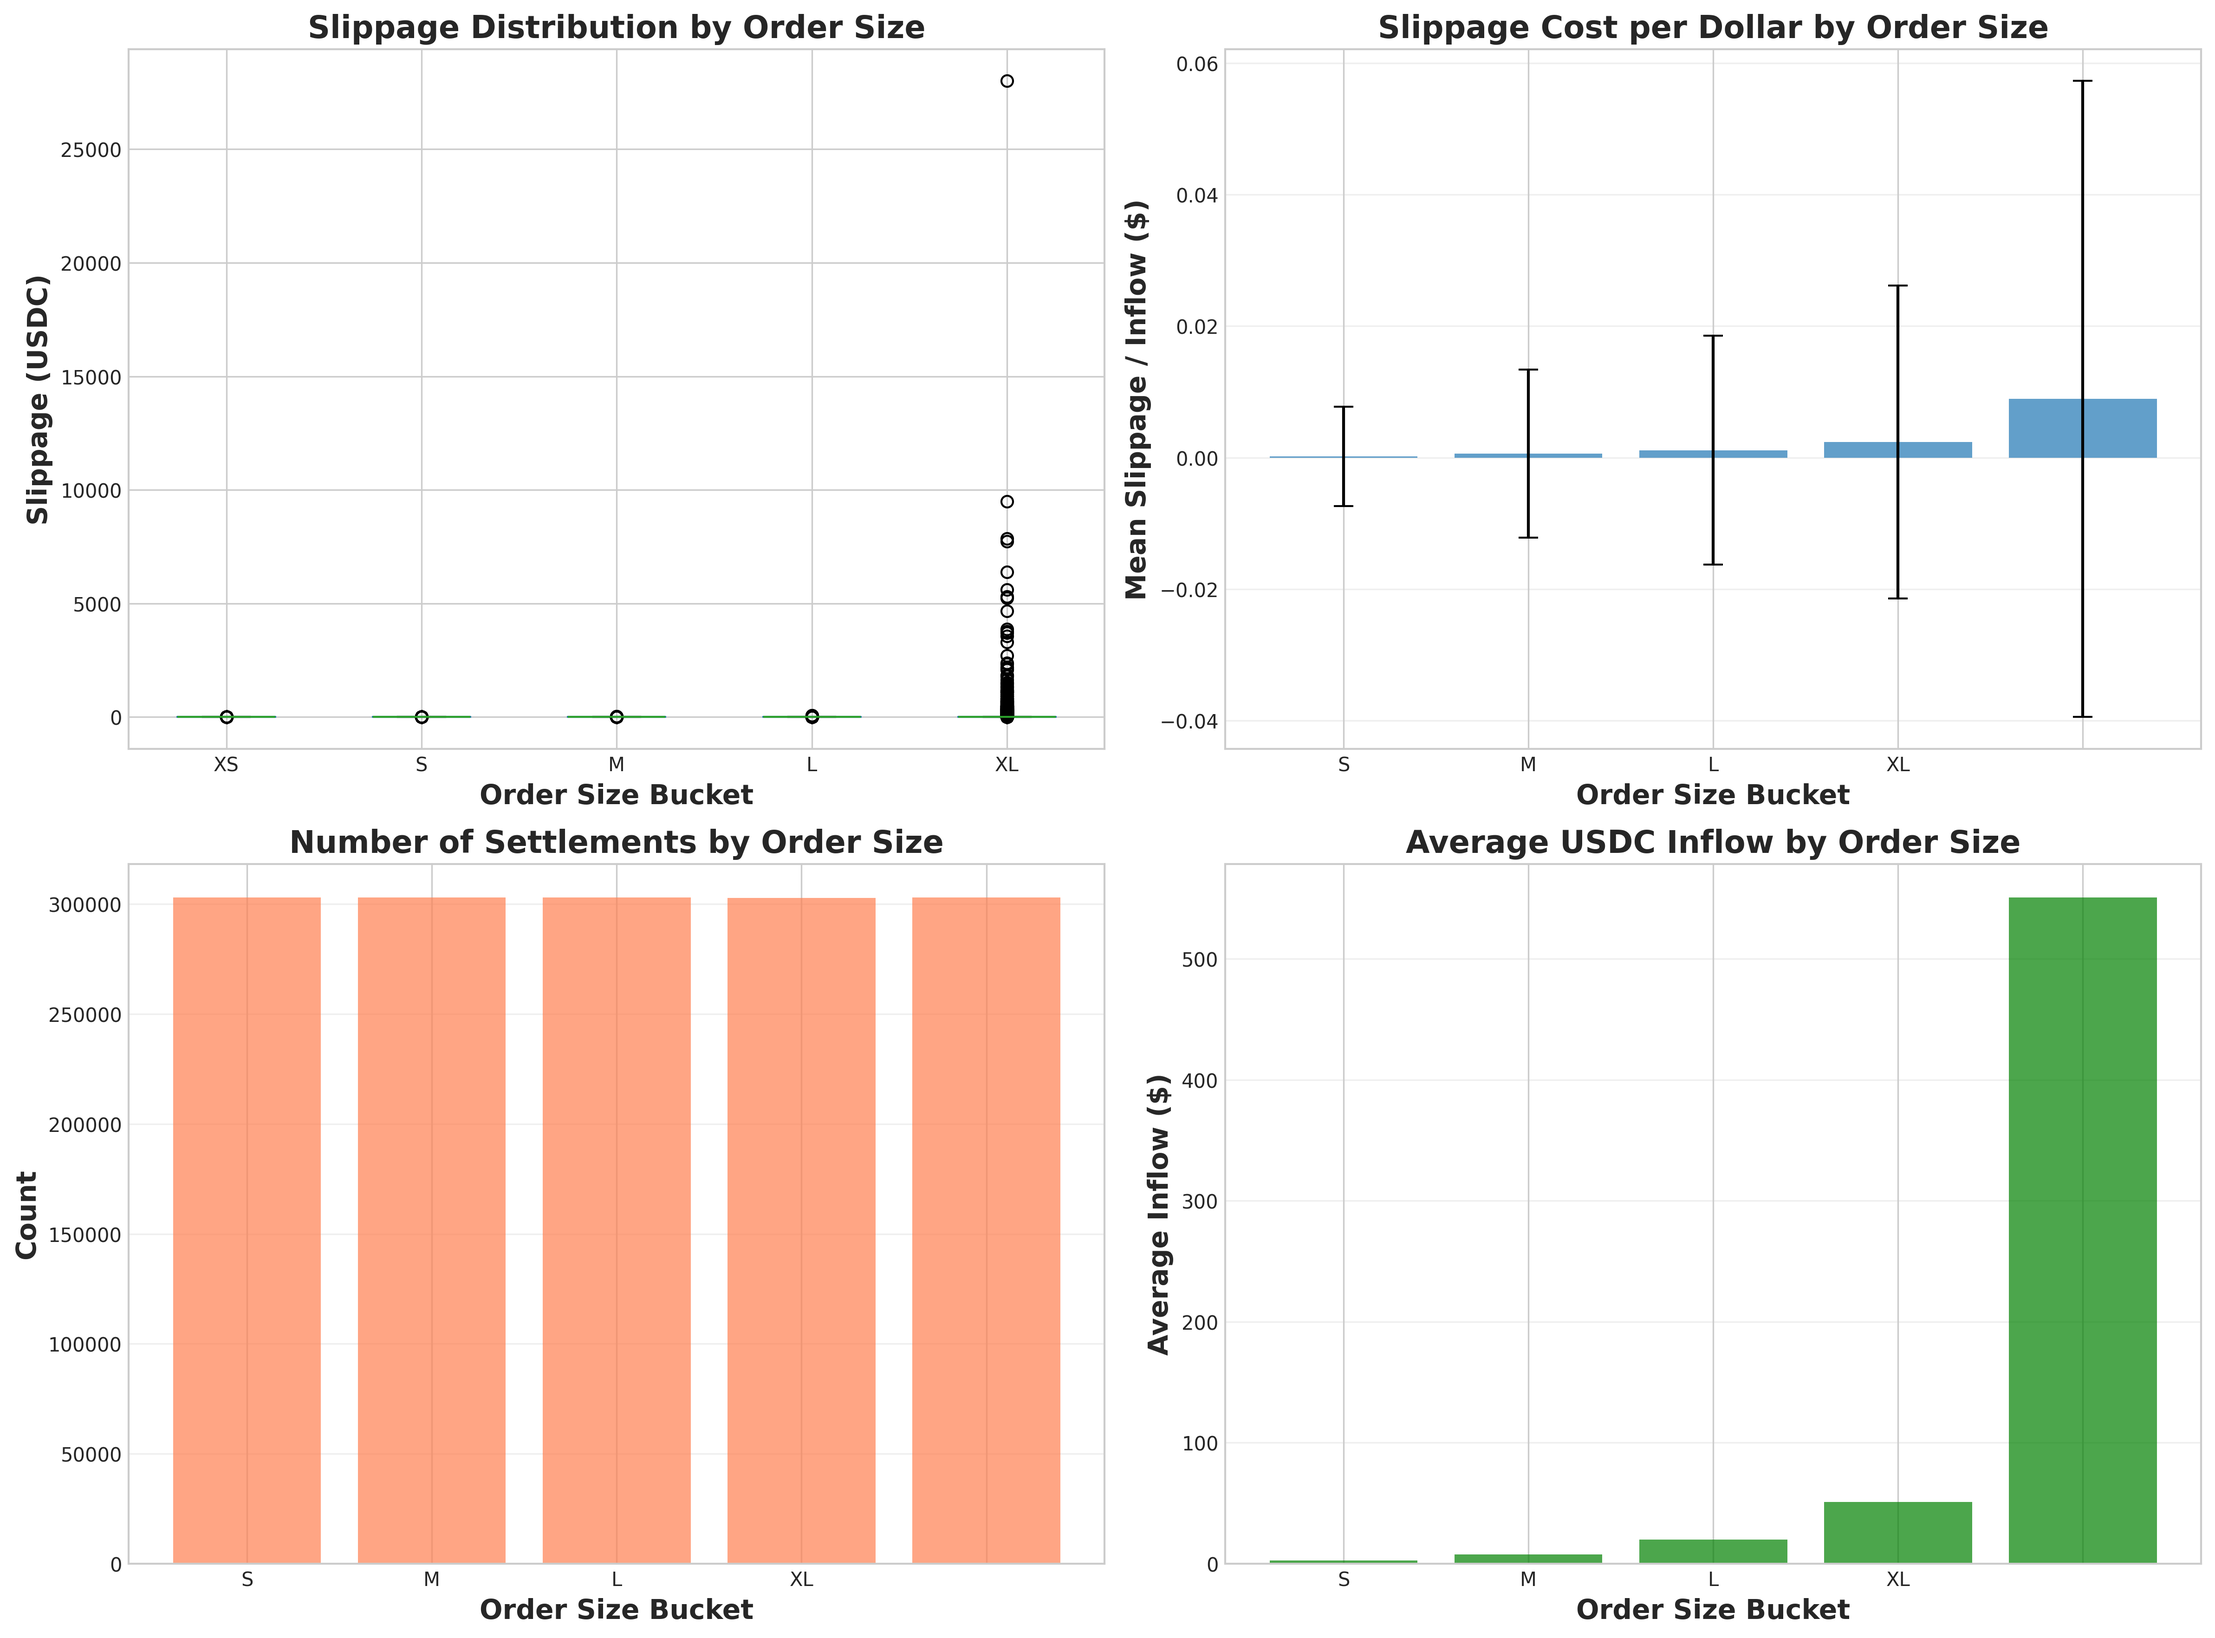
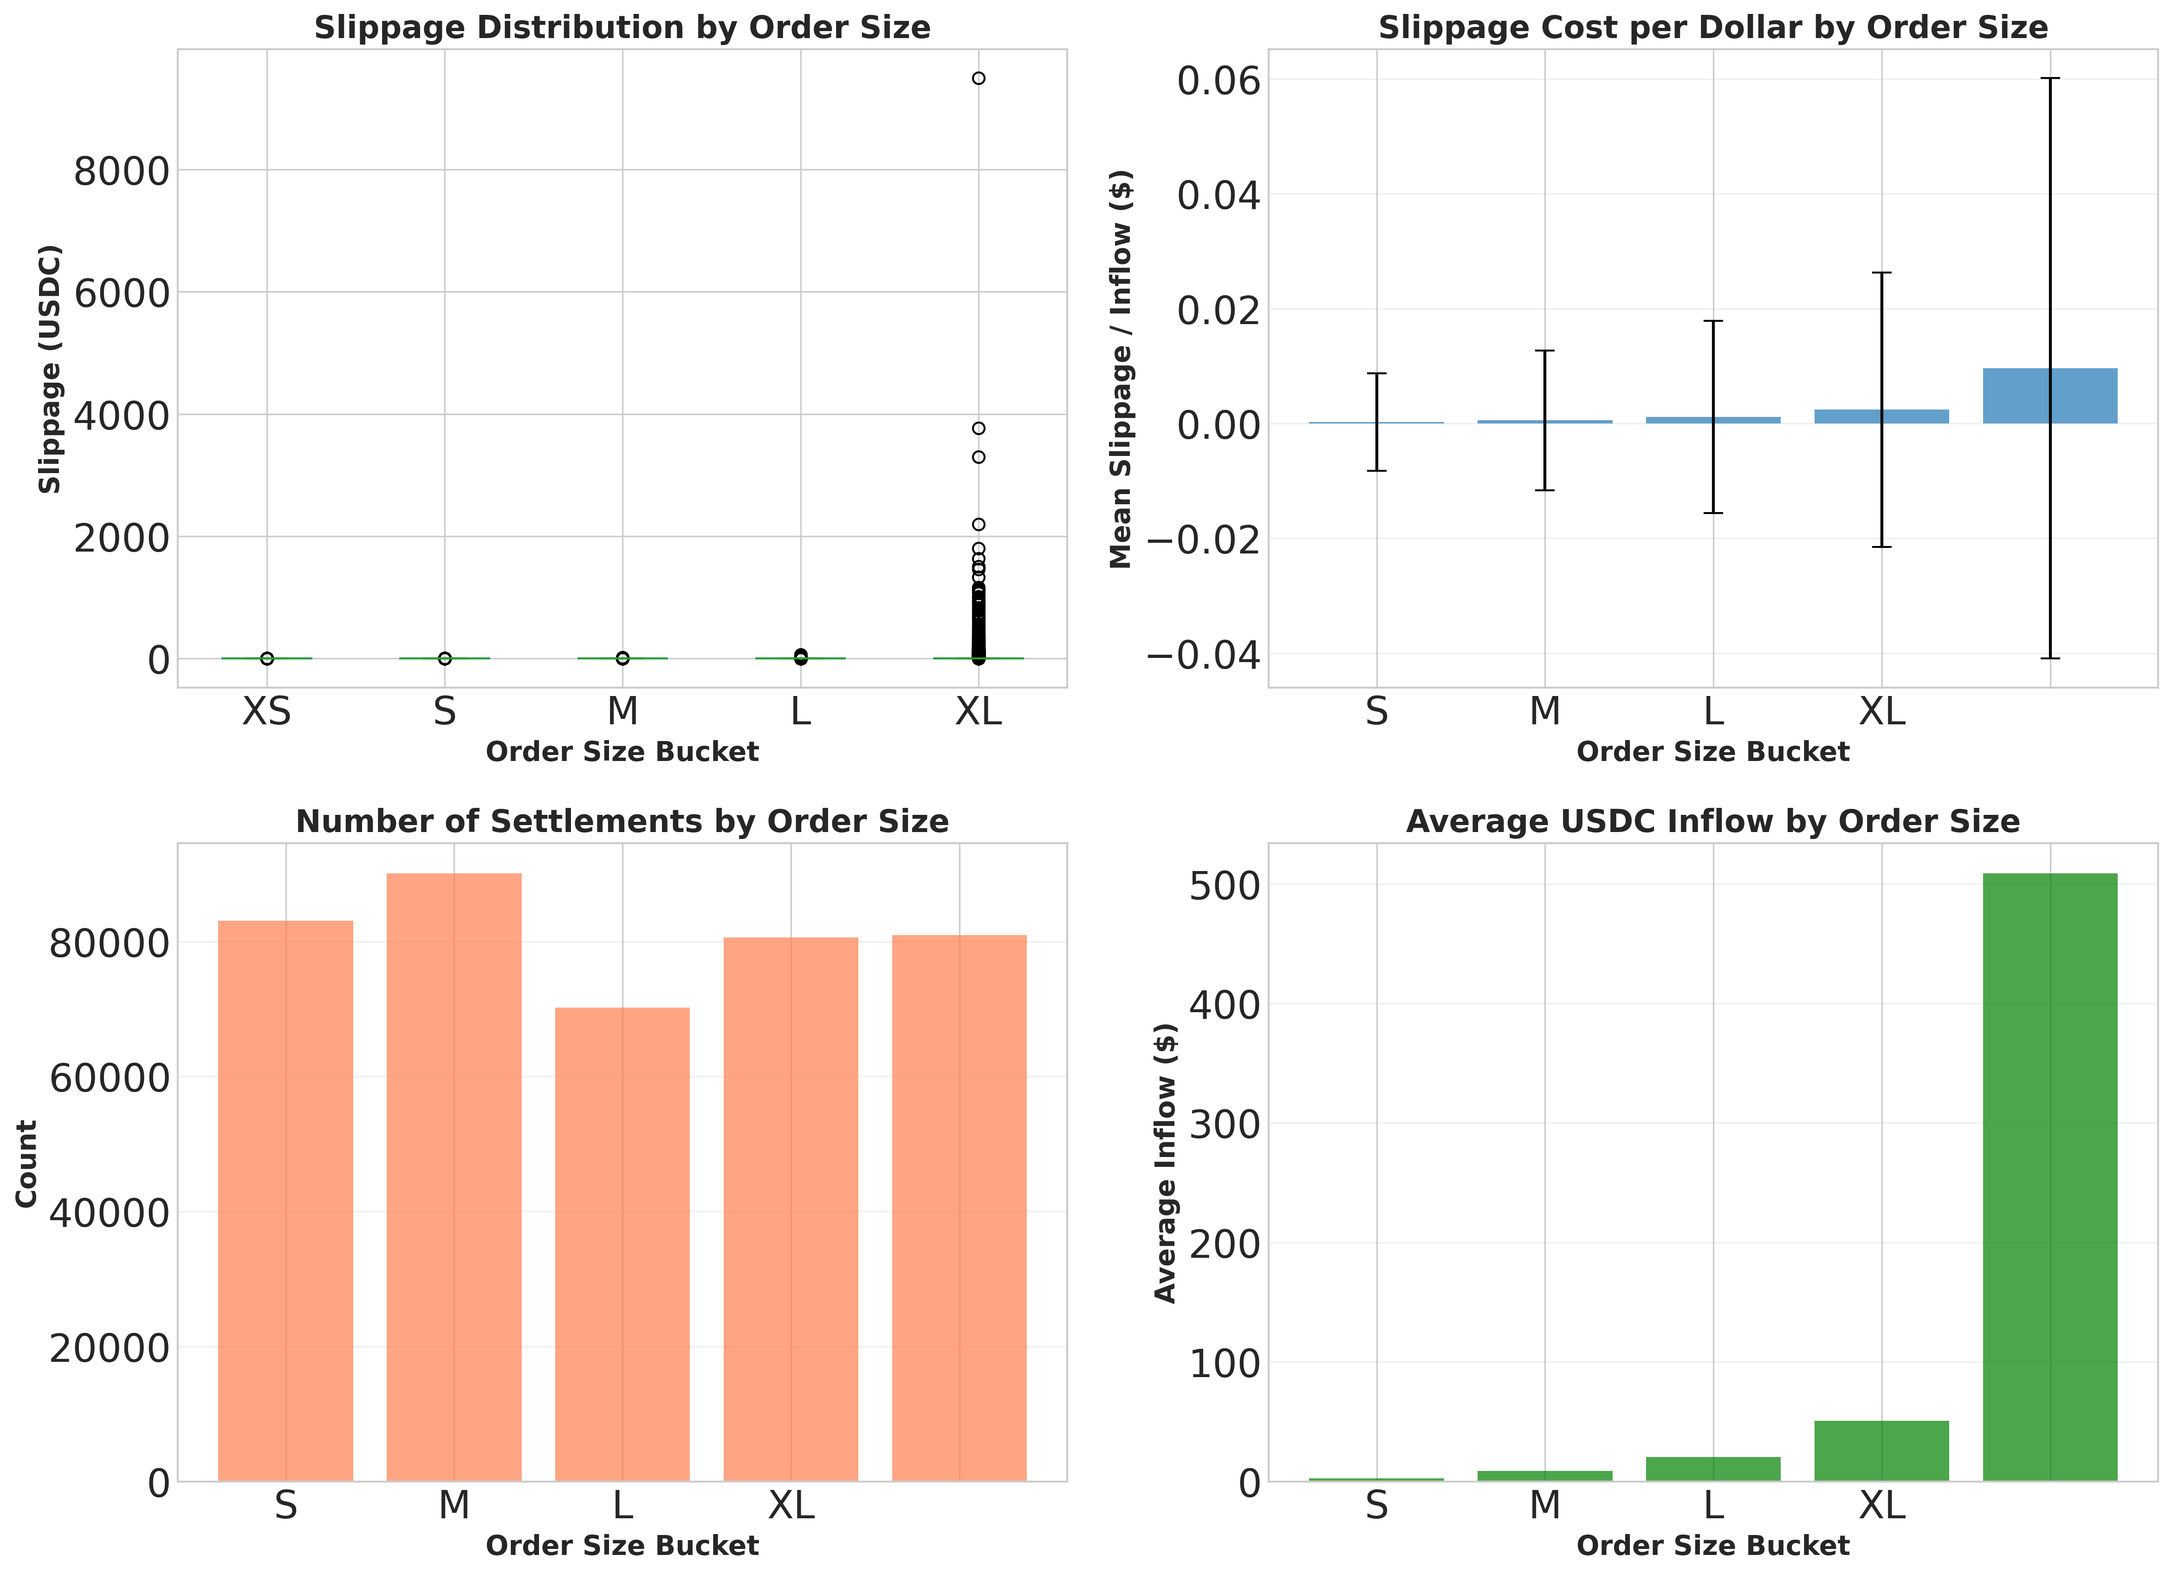
3

diff --git a/data_analysis/slip_regression_with_ordersize.py b/data_analysis/slip_regression_with_ordersize.py
@@ -18,6 +18,8 @@ from decimal import Decimal, getcontext
 from eth_abi import decode
 from scipy import stats
 import seaborn as sns
+from sklearn.mixture import GaussianMixture
+from sklearn.metrics import silhouette_score
 
 # ----------------------------------------------------------------
 # CONFIGURATION
@@ -41,7 +43,7 @@ SECONDS_PER_BLOCK = 2
 
 # --- Block Range Configuration ---
 START_BLOCK_NR = 79172085
-END_BLOCK_NR = 79172085 + 400_000 #81225971
+END_BLOCK_NR = 79172085 + 100_000 #81225971
 BLOCK_BATCH_SIZE = 50_000
 
 # --- Regression Filter Range ---
@@ -415,8 +417,6 @@ def test_logarithmic_fit(X: np.ndarray, y: np.ndarray, name: str = ""):
         'rmse': rmse,
         'slope': slope,
         'intercept': intercept,
-        'X_log': X_log,
-        'y': y_clean
     }
 
 def test_power_law_fit(X: np.ndarray, y: np.ndarray, name: str = ""):
@@ -487,9 +487,9 @@ def plot_power_law_fit(order_sizes: np.ndarray, slippages: np.ndarray, fit_resul
     xs_all = np.array(order_sizes)
     ys_all = np.array(slippages)
 
-    mask_used = (xs_all > 0) & (ys_all > 0)
-    xs_used = xs_all[mask_used]
-    ys_used = ys_all[mask_used]
+    # Points used in the fit are returned in fit_results as 'X' and 'y'
+    xs_used = np.array(fit_results.get('X', []))
+    ys_used = np.array(fit_results.get('y', []))
 
     # Sample to avoid overplotting for background
     n_all = len(xs_all)
@@ -537,6 +537,223 @@ def plot_power_law_fit(order_sizes: np.ndarray, slippages: np.ndarray, fit_resul
     plt.savefig(filename, dpi=300, bbox_inches='tight')
     logger.info(f"✅ Power-law fit plot saved to {filename}")
     plt.close()
+
+
+def analyze_and_cluster(order_sizes: np.ndarray, slippages: np.ndarray, settlement_data: list, n_clusters: int = 3):
+    """Cluster (log order_size, log slippage) into `n_clusters` groups and produce diagnostic plots.
+
+    Returns a dict with cluster assignments, GMM model, and summary statistics.
+    """
+    logger.info(f"\nCLUSTERING: fitting {n_clusters} components on positive order_size & slippage samples")
+    # === Zorder configuration (modify here for layering) ===
+    zorder_background = 1
+    zorder_points = 50
+    zorder_regression = 300
+    # ======================================================
+    logger.info("Note: `order_size` = max(making,taking)/SHARE_SCALAR (shares); `inflow` = min(making,taking)/USDC_SCALAR (USDC)")
+
+    xs = np.array(order_sizes)
+    ys = np.array(slippages)
+
+    # Mask positive samples (exclude zeros for log clustering)
+    mask_pos = (xs > 0) & (ys > 0)
+    n_total = len(xs)
+    n_pos = int(np.sum(mask_pos))
+    n_zero_or_neg = n_total - n_pos
+    logger.info(f"  Total samples: {n_total:,}, positive (used): {n_pos:,}, excluded (zero/neg): {n_zero_or_neg:,}")
+
+    if n_pos < n_clusters:
+        logger.warning("Not enough positive samples to form requested clusters")
+        return None
+
+    logX = np.log(xs[mask_pos])
+    logY = np.log(ys[mask_pos])
+    feats = np.column_stack([logX, logY])
+
+    # Fit Gaussian Mixture Model
+    gmm = GaussianMixture(n_components=n_clusters, covariance_type='full', random_state=0)
+    gmm.fit(feats)
+    labels = gmm.predict(feats)
+    probs = gmm.predict_proba(feats)
+
+    bic = gmm.bic(feats)
+    aic = gmm.aic(feats)
+
+    sil_score = None
+    try:
+        if n_pos >= 10 and n_clusters > 1:
+            sil_score = silhouette_score(feats, labels)
+    except Exception:
+        sil_score = None
+
+    # Prepare summary per cluster
+    cluster_summary = []
+    for k in range(n_clusters):
+        idx = np.where(labels == k)[0]
+        count = len(idx)
+        median_size = float(np.median(np.exp(logX[idx]))) if count > 0 else 0.0
+        median_slip = float(np.median(np.exp(logY[idx]))) if count > 0 else 0.0
+
+        # Collect top asset ids by frequency for maker fills in this cluster
+        maker_assets = {}
+        taker_assets = {}
+        cluster_settlements = []
+        # Map masked indices back to settlement_data
+        masked_indices = np.nonzero(mask_pos)[0]
+        for local_i in idx:
+            orig_i = masked_indices[local_i]
+            cluster_settlements.append((orig_i, settlement_data[orig_i]))
+            trade = settlement_data[orig_i]['trade']
+            for fill in trade.get('orders_filled', []):
+                decoded = decode_order_filled(fill['data'], fill['topics'])
+                if not decoded:
+                    continue
+                # Count maker/taker asset ids
+                maker_assets[decoded.get('makerAssetId')] = maker_assets.get(decoded.get('makerAssetId'), 0) + 1
+                taker_assets[decoded.get('takerAssetId')] = taker_assets.get(decoded.get('takerAssetId'), 0) + 1
+
+        # Sort top assets
+        top_maker = sorted(maker_assets.items(), key=lambda x: x[1], reverse=True)[:3]
+        top_taker = sorted(taker_assets.items(), key=lambda x: x[1], reverse=True)[:3]
+
+        cluster_summary.append({
+            'cluster': k,
+            'count': count,
+            'median_order_size': median_size,
+            'median_slippage': median_slip,
+            'top_maker_assets': top_maker,
+            'top_taker_assets': top_taker,
+            'example_settlements': cluster_settlements[:3]
+        })
+
+    # --- Plot 1: cluster density visualization (log-log) ---
+    plt.rcParams.update({'font.size': 20})
+    fig, ax = plt.subplots(figsize=(14, 10))
+    colors = sns.color_palette('deep', n_clusters)
+
+    # Plot all points faint as background (including zeros) but don't add legend entry
+    ax.scatter(xs, ys, s=8, alpha=0.03, color='lightgray', zorder=zorder_background)
+
+    # Plot clustered positive points colored
+    masked_orig_idx = np.nonzero(mask_pos)[0]
+    for k in range(n_clusters):
+        sel = (labels == k)
+        ax.scatter(xs[masked_orig_idx[sel]], ys[masked_orig_idx[sel]], s=12, alpha=0.75, color=colors[k], label=f'Cluster {k} (n={cluster_summary[k]["count"]:,})', edgecolors='none', zorder=zorder_points)
+
+    ax.set_xscale('log')
+    ax.set_yscale('log')
+    ax.set_xlabel('Order Size (shares)', fontsize=26, fontweight='bold')
+    ax.set_ylabel('Slippage (USDC)', fontsize=26, fontweight='bold')
+    ax.tick_params(axis='both', which='major', labelsize=20)
+    ax.set_title(f'Clustered Slippage / Ordersize (n={n_clusters})', fontsize=28, fontweight='bold')
+
+    # Legend with larger colored texts (no marker/handle on the left)
+    from matplotlib.lines import Line2D
+    labels = [f'Cluster {k} (n={cluster_summary[k]["count"]:,})' for k in range(n_clusters)]
+    proxy_handles = [Line2D([], [], linestyle='', marker='', color='none') for _ in range(n_clusters)]
+    leg = ax.legend(proxy_handles, labels, loc='upper left', bbox_to_anchor=(0.01, 0.99), prop={'size': 20}, handlelength=0, handletextpad=0.4)
+    leg.get_frame().set_alpha(0.92)
+    for i, text in enumerate(leg.get_texts()):
+        text.set_color(colors[i])
+        text.set_fontsize(20)
+
+    plt.tight_layout()
+    cluster_plot_file = 'clusters_density_loglog.png'
+    plt.savefig(cluster_plot_file, dpi=300, bbox_inches='tight')
+    plt.close()
+    logger.info(f"✅ Cluster density plot saved to {cluster_plot_file}")
+
+    # --- Plot 2: classification summary ---
+    fig, ax = plt.subplots(figsize=(10, 6))
+    counts = [c['count'] for c in cluster_summary]
+    ax.bar(range(n_clusters), counts, color=colors)
+    ax.set_xlabel('Cluster', fontsize=18)
+    ax.set_ylabel('Count', fontsize=18)
+    ax.set_title('Cluster counts', fontsize=20)
+    ax.tick_params(axis='both', labelsize=16)
+    for i, v in enumerate(counts):
+        ax.text(i, v + max(counts) * 0.01, f'{v:,}', ha='center', fontsize=14)
+
+    stats_text = f"GMM BIC={bic:.1f}, AIC={aic:.1f}, Silhouette={sil_score if sil_score is not None else 'NA'}"
+    ax.text(0.02, 0.95, stats_text, transform=ax.transAxes, fontsize=12, verticalalignment='top', bbox=dict(facecolor='white', alpha=0.7))
+    class_plot_file = 'cluster_classification_summary.png'
+    plt.tight_layout()
+    plt.savefig(class_plot_file, dpi=300, bbox_inches='tight')
+    plt.close()
+    logger.info(f"✅ Cluster summary plot saved to {class_plot_file}")
+
+    # Save CSV summary
+    import csv
+    csv_file = 'cluster_summary.csv'
+    with open(csv_file, 'w', newline='') as f:
+        writer = csv.writer(f)
+        writer.writerow(['cluster', 'count', 'median_order_size', 'median_slippage', 'top_maker_assets', 'top_taker_assets'])
+        for s in cluster_summary:
+            writer.writerow([s['cluster'], s['count'], s['median_order_size'], s['median_slippage'], str(s['top_maker_assets']), str(s['top_taker_assets'])])
+    logger.info(f"✅ Cluster CSV summary saved to {csv_file}")
+
+    # --- Per-cluster power-law fits (for clusters with enough data) ---
+    cluster_fits = {}
+    for s in cluster_summary:
+        k = s['cluster']
+        if s['count'] < 10:
+            logger.info(f"Skipping power-law fit for cluster {k} (too few samples: {s['count']})")
+            continue
+        sel = (labels == k)
+        xs_k = xs[mask_pos][sel]
+        ys_k = ys[mask_pos][sel]
+        fit_k = test_power_law_fit(xs_k, ys_k, f"Cluster {k}")
+        cluster_fits[k] = fit_k
+
+    # Plot per-cluster fits overlay
+    fig, ax = plt.subplots(figsize=(12, 9))
+    ax.set_xscale('log')
+    ax.set_yscale('log')
+    ax.scatter(xs, ys, s=8, alpha=0.03, color='lightgray', zorder=zorder_background)
+    for k in range(n_clusters):
+        sel = (labels == k)
+        ax.scatter(xs[masked_orig_idx[sel]], ys[masked_orig_idx[sel]], s=12, alpha=0.75, color=colors[k], label=f'Cluster {k} (n={cluster_summary[k]["count"]:,})', edgecolors='none', zorder=zorder_points)
+        # Only draw regression lines for clusters 0 and 2
+        if k in [0, 2] and k in cluster_fits and cluster_fits[k] is not None:
+            Ck = cluster_fits[k]['prefactor']
+            alphak = cluster_fits[k]['alpha']
+            xmin = max(xs[masked_orig_idx[sel]].min(), 1e-12)
+            xmax = xs[masked_orig_idx[sel]].max()
+            x_line = np.logspace(np.log10(xmin), np.log10(xmax), 200)
+            # Solid black regression lines, drawn on top
+            ax.plot(x_line, Ck * (x_line ** alphak), color='black', linewidth=6.0, linestyle='-', zorder=zorder_regression)
+
+    ax.set_xlabel('Order Size (shares)', fontsize=22, fontweight='bold')
+    ax.set_ylabel('Slippage (USDC)', fontsize=22, fontweight='bold')
+    ax.tick_params(axis='both', which='major', labelsize=18)
+    ax.set_title('Cluster-specific power-law fits (log-log)', fontsize=24, fontweight='bold')
+    # Create legend without marker handles and larger colored labels
+    from matplotlib.lines import Line2D
+    labels2 = [f'Cluster {k} (n={cluster_summary[k]["count"]:,})' for k in range(n_clusters)]
+    proxy2 = [Line2D([], [], linestyle='', marker='', color='none') for _ in range(n_clusters)]
+    leg2 = ax.legend(proxy2, labels2, loc='upper left', bbox_to_anchor=(0.01, 0.99), prop={'size': 18}, handlelength=0, handletextpad=0.4)
+    leg2.get_frame().set_alpha(0.92)
+    for i, text in enumerate(leg2.get_texts()):
+        text.set_color(colors[i])
+        text.set_fontsize(18)
+
+    plt.tight_layout()
+    per_cluster_fit_file = 'cluster_powerlaw_fits.png'
+    plt.savefig(per_cluster_fit_file, dpi=300, bbox_inches='tight')
+    plt.close()
+    logger.info(f"✅ Cluster power-law fits plot saved to {per_cluster_fit_file}")
+
+    return {
+        'gmm': gmm,
+        'labels': labels,
+        'probs': probs,
+        'bic': bic,
+        'aic': aic,
+        'silhouette': sil_score,
+        'summary': cluster_summary,
+        'fits': cluster_fits,
+        'masked_indices': masked_indices
+    }
 
 def plot_slippage_vs_ordersize(order_sizes: np.ndarray, slippages: np.ndarray, results: dict):
     """Plot slippage vs order size with regression line."""
@@ -847,6 +1064,9 @@ async def main():
         # Power-law fit (order size vs slippage)
         power_results = test_power_law_fit(order_sizes_arr, slippages_arr, "Order Size vs Slippage")
         plot_power_law_fit(order_sizes_arr, slippages_arr, power_results)
+        
+        # --- CLUSTERING ANALYSIS ---
+        cluster_results = analyze_and_cluster(order_sizes_arr, slippages_arr, filtered_settlement_data, n_clusters=3)
         
         # --- PLOTS & STRATIFIED ANALYSIS ---
         plot_slippage_vs_ordersize(order_sizes_arr, slippages_arr, results_size)
